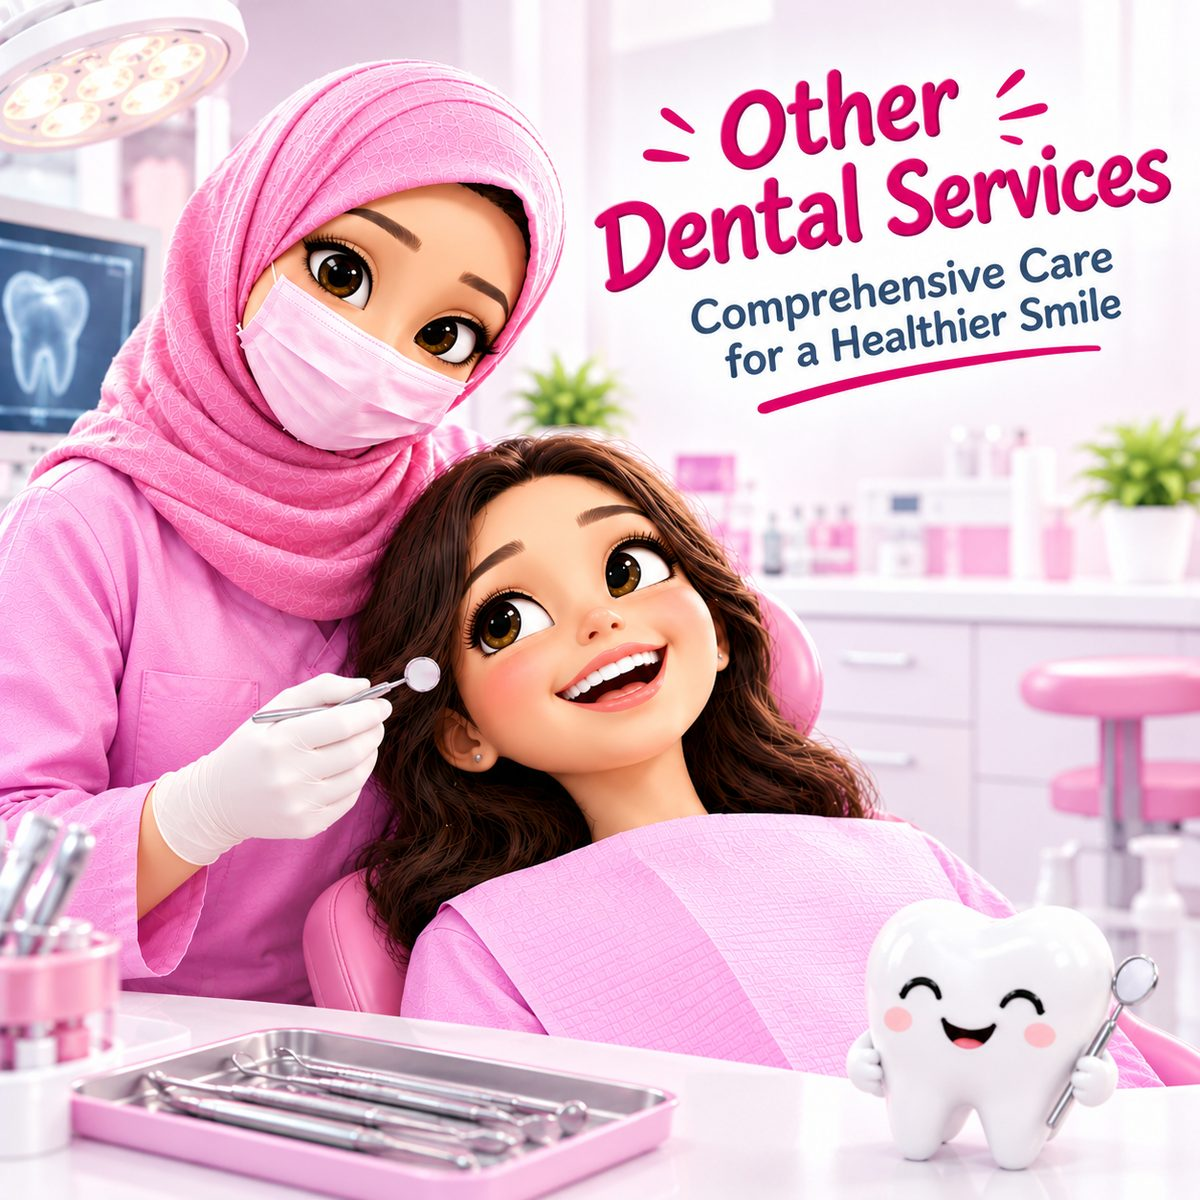
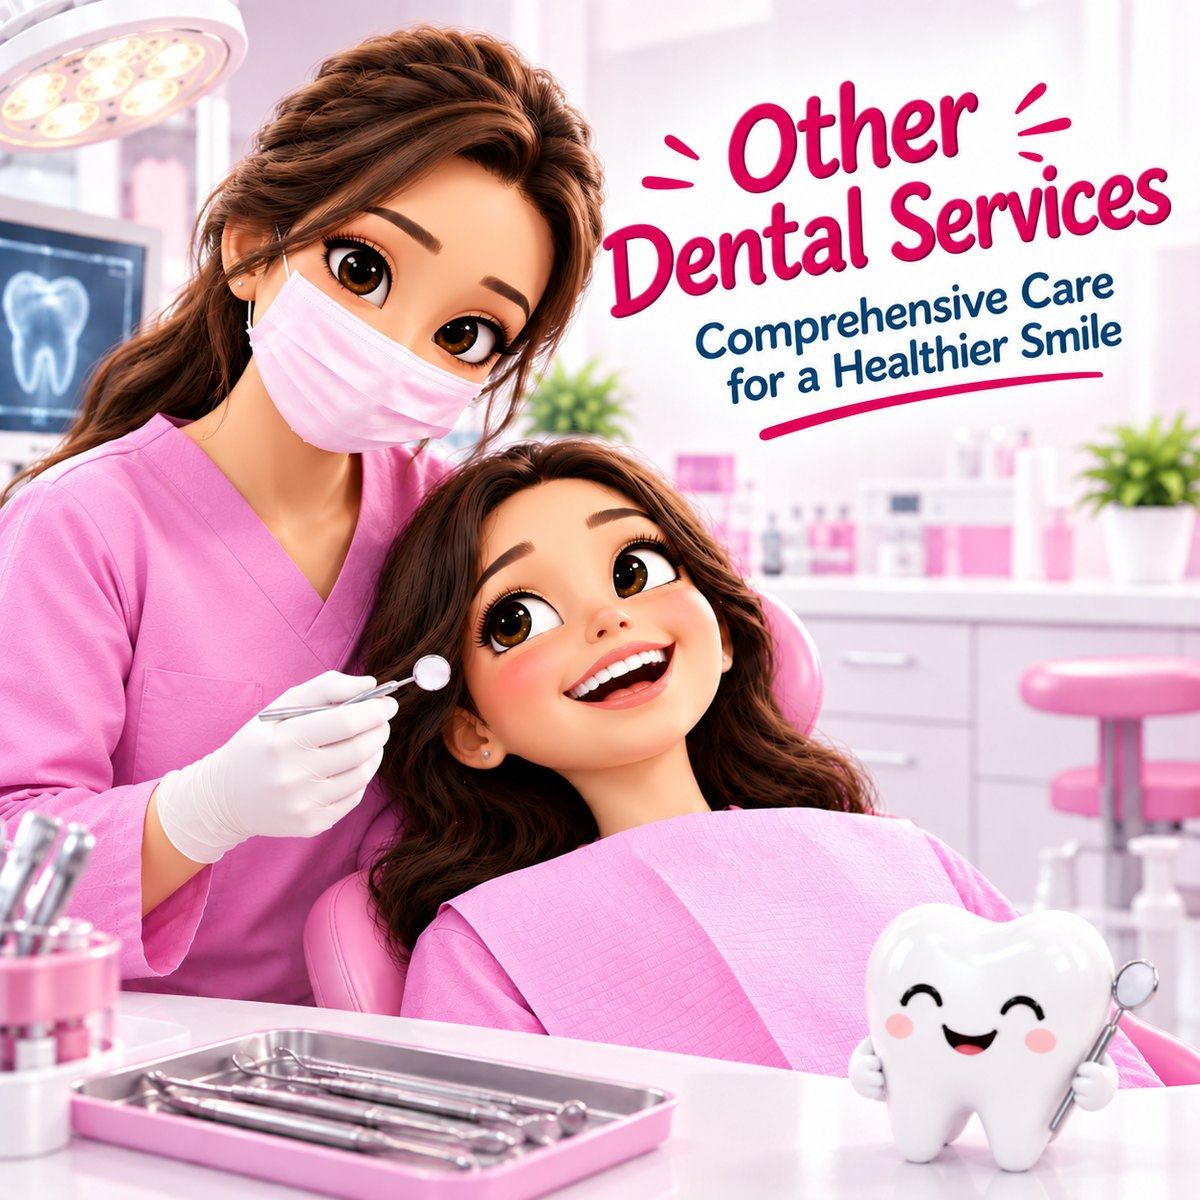
New images: General Dentistry, Orthodontics, Other Dental Services
Claude-Session: https://claude.ai/code/session_017qCPQQxzanc4XPe6tqL491

diff --git a/treatments.html b/treatments.html
@@ -12,7 +12,7 @@
 <link rel="icon" href="assets/img/mark.svg" type="image/svg+xml">
 <link rel="preload" href="assets/fonts/anton-400.woff2" as="font" type="font/woff2" crossorigin>
 <link rel="preload" href="assets/fonts/kanit-300.woff2" as="font" type="font/woff2" crossorigin>
-<link rel="stylesheet" href="assets/css/site.css?v=14">
+<link rel="stylesheet" href="assets/css/site.css?v=15">
 <script>document.documentElement.classList.add('js')</script>
 <script type="application/ld+json">{"@context":"https://schema.org","@type":"Dentist","name":"Pearlecent Shifah Medical Center L.L.C.","telephone":"+971 55 339 6152","address":{"@type":"PostalAddress","streetAddress":"Room 104, Al Zarooni Building, 73 Al Rigga Road","addressLocality":"Deira, Dubai","addressCountry":"AE"},"geo":{"@type":"GeoCoordinates","latitude":25.2624015,"longitude":55.3266563},"openingHours":["Sa-Th 09:00-22:00","Fr 13:00-21:00"],"sameAs":["https://www.instagram.com/pearlescent_dental","https://www.tiktok.com/@pearlecentshifah"]}</script>
 </head>
@@ -51,7 +51,7 @@
 
 <section class="tsec" id="general" aria-labelledby="general-h">
   <div class="wrap tsec__in">
-    <div class="tsec__pic shutter" data-reveal><picture><source type="image/webp" srcset="assets/img/treatments/general-600.webp 600w, assets/img/treatments/general-1200.webp 1200w" sizes="(max-width: 48em) 92vw, 520px"><img src="assets/img/treatments/general-1200.jpg" srcset="assets/img/treatments/general-600.jpg 600w, assets/img/treatments/general-1200.jpg 1200w" sizes="(max-width: 48em) 92vw, 520px" alt="General Dentistry at Pearlecent" width="1200" height="1200" decoding="async"></picture></div>
+    <div class="tsec__pic shutter" data-reveal><picture><source type="image/webp" srcset="assets/img/treatments/general-600.webp?v=15 600w, assets/img/treatments/general-1200.webp?v=15 1200w" sizes="(max-width: 48em) 92vw, 520px"><img src="assets/img/treatments/general-1200.jpg?v=15" srcset="assets/img/treatments/general-600.jpg?v=15 600w, assets/img/treatments/general-1200.jpg?v=15 1200w" sizes="(max-width: 48em) 92vw, 520px" alt="General Dentistry at Pearlecent" width="1200" height="1200" decoding="async"></picture></div>
     <div class="tsec__txt">
       <h2 id="general-h" data-reveal>General Dentistry</h2>
       <ul class="tsec__list" data-reveal><li>Free Dental Examinations and Check-ups</li><li>Tooth Cleaning (Scaling and Polishing)</li><li>Tooth Extraction (Surgical / Non-Surgical)</li></ul>
@@ -61,7 +61,7 @@
 </section>
 <section class="tsec tsec--flip" id="restorative" aria-labelledby="restorative-h">
   <div class="wrap tsec__in">
-    <div class="tsec__pic shutter" data-reveal><picture><source type="image/webp" srcset="assets/img/treatments/restorative-600.webp 600w, assets/img/treatments/restorative-1200.webp 1200w" sizes="(max-width: 48em) 92vw, 520px"><img src="assets/img/treatments/restorative-1200.jpg" srcset="assets/img/treatments/restorative-600.jpg 600w, assets/img/treatments/restorative-1200.jpg 1200w" sizes="(max-width: 48em) 92vw, 520px" alt="Restorative Dentistry at Pearlecent" width="1200" height="1200" loading="lazy" decoding="async"></picture></div>
+    <div class="tsec__pic shutter" data-reveal><picture><source type="image/webp" srcset="assets/img/treatments/restorative-600.webp?v=15 600w, assets/img/treatments/restorative-1200.webp?v=15 1200w" sizes="(max-width: 48em) 92vw, 520px"><img src="assets/img/treatments/restorative-1200.jpg?v=15" srcset="assets/img/treatments/restorative-600.jpg?v=15 600w, assets/img/treatments/restorative-1200.jpg?v=15 1200w" sizes="(max-width: 48em) 92vw, 520px" alt="Restorative Dentistry at Pearlecent" width="1200" height="1200" loading="lazy" decoding="async"></picture></div>
     <div class="tsec__txt">
       <h2 id="restorative-h" data-reveal>Restorative Dentistry</h2>
       <ul class="tsec__list" data-reveal><li>Tooth Colored Fillings (Composite / GIC)</li><li>Root Canal Treatment</li><li>Dental Crowns</li><li>Dental Bridges</li><li>Inlays / Onlays</li></ul>
@@ -71,7 +71,7 @@
 </section>
 <section class="tsec" id="cosmetic" aria-labelledby="cosmetic-h">
   <div class="wrap tsec__in">
-    <div class="tsec__pic shutter" data-reveal><picture><source type="image/webp" srcset="assets/img/treatments/cosmetic-600.webp 600w, assets/img/treatments/cosmetic-1200.webp 1200w" sizes="(max-width: 48em) 92vw, 520px"><img src="assets/img/treatments/cosmetic-1200.jpg" srcset="assets/img/treatments/cosmetic-600.jpg 600w, assets/img/treatments/cosmetic-1200.jpg 1200w" sizes="(max-width: 48em) 92vw, 520px" alt="Cosmetic Dentistry at Pearlecent" width="1200" height="1200" loading="lazy" decoding="async"></picture></div>
+    <div class="tsec__pic shutter" data-reveal><picture><source type="image/webp" srcset="assets/img/treatments/cosmetic-600.webp?v=15 600w, assets/img/treatments/cosmetic-1200.webp?v=15 1200w" sizes="(max-width: 48em) 92vw, 520px"><img src="assets/img/treatments/cosmetic-1200.jpg?v=15" srcset="assets/img/treatments/cosmetic-600.jpg?v=15 600w, assets/img/treatments/cosmetic-1200.jpg?v=15 1200w" sizes="(max-width: 48em) 92vw, 520px" alt="Cosmetic Dentistry at Pearlecent" width="1200" height="1200" loading="lazy" decoding="async"></picture></div>
     <div class="tsec__txt">
       <h2 id="cosmetic-h" data-reveal>Cosmetic Dentistry</h2>
       <ul class="tsec__list" data-reveal><li>Teeth Whitening</li><li>Dental Veneers – Composite, E-max and Zirconia</li><li>Full Mouth Veneers / Hollywood Smile</li><li>Tooth Jewellery</li><li>Smile Makeover</li><li>Snap On Veneers</li></ul>
@@ -81,7 +81,7 @@
 </section>
 <section class="tsec tsec--flip" id="orthodontics" aria-labelledby="orthodontics-h">
   <div class="wrap tsec__in">
-    <div class="tsec__pic shutter" data-reveal><picture><source type="image/webp" srcset="assets/img/treatments/orthodontics-600.webp 600w, assets/img/treatments/orthodontics-1200.webp 1200w" sizes="(max-width: 48em) 92vw, 520px"><img src="assets/img/treatments/orthodontics-1200.jpg" srcset="assets/img/treatments/orthodontics-600.jpg 600w, assets/img/treatments/orthodontics-1200.jpg 1200w" sizes="(max-width: 48em) 92vw, 520px" alt="Orthodontics – Braces &amp; Teeth Alignment at Pearlecent" width="1200" height="1200" loading="lazy" decoding="async"></picture></div>
+    <div class="tsec__pic shutter" data-reveal><picture><source type="image/webp" srcset="assets/img/treatments/orthodontics-600.webp?v=15 600w, assets/img/treatments/orthodontics-1200.webp?v=15 1200w" sizes="(max-width: 48em) 92vw, 520px"><img src="assets/img/treatments/orthodontics-1200.jpg?v=15" srcset="assets/img/treatments/orthodontics-600.jpg?v=15 600w, assets/img/treatments/orthodontics-1200.jpg?v=15 1200w" sizes="(max-width: 48em) 92vw, 520px" alt="Orthodontics – Braces &amp; Teeth Alignment at Pearlecent" width="1200" height="1200" loading="lazy" decoding="async"></picture></div>
     <div class="tsec__txt">
       <h2 id="orthodontics-h" data-reveal>Orthodontics – Braces &amp; Teeth Alignment</h2>
       <ul class="tsec__list" data-reveal><li>Metal Braces</li><li>Ceramic and Crystal Braces</li><li>Lingual Braces</li><li>Damon Braces / Self Ligating</li><li>Clear Aligners / Invisalign</li></ul>
@@ -91,7 +91,7 @@
 </section>
 <section class="tsec" id="dentures" aria-labelledby="dentures-h">
   <div class="wrap tsec__in">
-    <div class="tsec__pic shutter" data-reveal><picture><source type="image/webp" srcset="assets/img/treatments/dentures-600.webp 600w, assets/img/treatments/dentures-1200.webp 1200w" sizes="(max-width: 48em) 92vw, 520px"><img src="assets/img/treatments/dentures-1200.jpg" srcset="assets/img/treatments/dentures-600.jpg 600w, assets/img/treatments/dentures-1200.jpg 1200w" sizes="(max-width: 48em) 92vw, 520px" alt="Dentures &amp; Retainers at Pearlecent" width="1200" height="1200" loading="lazy" decoding="async"></picture></div>
+    <div class="tsec__pic shutter" data-reveal><picture><source type="image/webp" srcset="assets/img/treatments/dentures-600.webp?v=15 600w, assets/img/treatments/dentures-1200.webp?v=15 1200w" sizes="(max-width: 48em) 92vw, 520px"><img src="assets/img/treatments/dentures-1200.jpg?v=15" srcset="assets/img/treatments/dentures-600.jpg?v=15 600w, assets/img/treatments/dentures-1200.jpg?v=15 1200w" sizes="(max-width: 48em) 92vw, 520px" alt="Dentures &amp; Retainers at Pearlecent" width="1200" height="1200" loading="lazy" decoding="async"></picture></div>
     <div class="tsec__txt">
       <h2 id="dentures-h" data-reveal>Dentures &amp; Retainers</h2>
       <ul class="tsec__list" data-reveal><li>Removable Partial Dentures (Acrylic / Flexible)</li><li>Complete Denture</li><li>Clear Retainers</li><li>Lingual Retainers</li><li>Hawley’s Retainers</li></ul>
@@ -101,7 +101,7 @@
 </section>
 <section class="tsec tsec--flip" id="other" aria-labelledby="other-h">
   <div class="wrap tsec__in">
-    <div class="tsec__pic shutter" data-reveal><picture><source type="image/webp" srcset="assets/img/treatments/other-600.webp 600w, assets/img/treatments/other-1200.webp 1200w" sizes="(max-width: 48em) 92vw, 520px"><img src="assets/img/treatments/other-1200.jpg" srcset="assets/img/treatments/other-600.jpg 600w, assets/img/treatments/other-1200.jpg 1200w" sizes="(max-width: 48em) 92vw, 520px" alt="Other Dental Services at Pearlecent" width="1200" height="1200" loading="lazy" decoding="async"></picture></div>
+    <div class="tsec__pic shutter" data-reveal><picture><source type="image/webp" srcset="assets/img/treatments/other-600.webp?v=15 600w, assets/img/treatments/other-1200.webp?v=15 1200w" sizes="(max-width: 48em) 92vw, 520px"><img src="assets/img/treatments/other-1200.jpg?v=15" srcset="assets/img/treatments/other-600.jpg?v=15 600w, assets/img/treatments/other-1200.jpg?v=15 1200w" sizes="(max-width: 48em) 92vw, 520px" alt="Other Dental Services at Pearlecent" width="1200" height="1200" loading="lazy" decoding="async"></picture></div>
     <div class="tsec__txt">
       <h2 id="other-h" data-reveal>Other Dental Services</h2>
       <ul class="tsec__list" data-reveal><li>TMJ Consultation</li><li>Mouth Guard</li><li>Preventive Dental Care</li><li>Pedodontic Treatments</li><li>Fluoride Treatment</li><li>Dental X-ray</li><li>Digital Dentistry</li></ul>
@@ -130,6 +130,6 @@
     <p><a href="about.html">About</a><a href="treatments.html">Treatments</a><a href="index.html#visit">Contact</a></p></div>
 </footer>
 <a class="wa-float" href="https://wa.me/971553396152" target="_blank" rel="noopener" data-wa-float aria-label="Chat with Pearlecent"><svg viewBox="0 0 24 24" aria-hidden="true"><path d="M4 5.5A2.5 2.5 0 0 1 6.5 3h11A2.5 2.5 0 0 1 20 5.5v8a2.5 2.5 0 0 1-2.5 2.5H10l-4.2 3.6c-.5.4-1.3.1-1.3-.6V16A2.5 2.5 0 0 1 4 13.5z" fill="none" stroke="currentColor" stroke-width="1.8" stroke-linejoin="round"/><path d="M8.5 8.5h7M8.5 11.5h4.5" stroke="currentColor" stroke-width="1.8" stroke-linecap="round"/></svg><span>Chat with us</span></a>
-<script src="assets/js/site.js?v=14" defer></script>
+<script src="assets/js/site.js?v=15" defer></script>
 </body>
 </html>

diff --git a/dentists/ankur.html b/dentists/ankur.html
@@ -12,7 +12,7 @@
 <link rel="icon" href="../assets/img/mark.svg" type="image/svg+xml">
 <link rel="preload" href="../assets/fonts/anton-400.woff2" as="font" type="font/woff2" crossorigin>
 <link rel="preload" href="../assets/fonts/kanit-300.woff2" as="font" type="font/woff2" crossorigin>
-<link rel="stylesheet" href="../assets/css/site.css?v=14">
+<link rel="stylesheet" href="../assets/css/site.css?v=15">
 <script>document.documentElement.classList.add('js')</script>
 <script type="application/ld+json">{"@context":"https://schema.org","@type":"Dentist","name":"Pearlecent Shifah Medical Center L.L.C.","telephone":"+971 55 339 6152","address":{"@type":"PostalAddress","streetAddress":"Room 104, Al Zarooni Building, 73 Al Rigga Road","addressLocality":"Deira, Dubai","addressCountry":"AE"},"geo":{"@type":"GeoCoordinates","latitude":25.2624015,"longitude":55.3266563},"openingHours":["Sa-Th 09:00-22:00","Fr 13:00-21:00"],"sameAs":["https://www.instagram.com/pearlescent_dental","https://www.tiktok.com/@pearlecentshifah"]}</script>
 </head>
@@ -136,6 +136,6 @@
     <p><a href="../about.html">About</a><a href="../treatments.html">Treatments</a><a href="../index.html#visit">Contact</a></p></div>
 </footer>
 <a class="wa-float" href="https://wa.me/971553396152" target="_blank" rel="noopener" data-wa-float aria-label="Chat with Pearlecent"><svg viewBox="0 0 24 24" aria-hidden="true"><path d="M4 5.5A2.5 2.5 0 0 1 6.5 3h11A2.5 2.5 0 0 1 20 5.5v8a2.5 2.5 0 0 1-2.5 2.5H10l-4.2 3.6c-.5.4-1.3.1-1.3-.6V16A2.5 2.5 0 0 1 4 13.5z" fill="none" stroke="currentColor" stroke-width="1.8" stroke-linejoin="round"/><path d="M8.5 8.5h7M8.5 11.5h4.5" stroke="currentColor" stroke-width="1.8" stroke-linecap="round"/></svg><span>Chat with us</span></a>
-<script src="../assets/js/site.js?v=14" defer></script>
+<script src="../assets/js/site.js?v=15" defer></script>
 </body>
 </html>

diff --git a/dentists/faseela.html b/dentists/faseela.html
@@ -12,7 +12,7 @@
 <link rel="icon" href="../assets/img/mark.svg" type="image/svg+xml">
 <link rel="preload" href="../assets/fonts/anton-400.woff2" as="font" type="font/woff2" crossorigin>
 <link rel="preload" href="../assets/fonts/kanit-300.woff2" as="font" type="font/woff2" crossorigin>
-<link rel="stylesheet" href="../assets/css/site.css?v=14">
+<link rel="stylesheet" href="../assets/css/site.css?v=15">
 <script>document.documentElement.classList.add('js')</script>
 <script type="application/ld+json">{"@context":"https://schema.org","@type":"Dentist","name":"Pearlecent Shifah Medical Center L.L.C.","telephone":"+971 55 339 6152","address":{"@type":"PostalAddress","streetAddress":"Room 104, Al Zarooni Building, 73 Al Rigga Road","addressLocality":"Deira, Dubai","addressCountry":"AE"},"geo":{"@type":"GeoCoordinates","latitude":25.2624015,"longitude":55.3266563},"openingHours":["Sa-Th 09:00-22:00","Fr 13:00-21:00"],"sameAs":["https://www.instagram.com/pearlescent_dental","https://www.tiktok.com/@pearlecentshifah"]}</script>
 </head>
@@ -136,6 +136,6 @@
     <p><a href="../about.html">About</a><a href="../treatments.html">Treatments</a><a href="../index.html#visit">Contact</a></p></div>
 </footer>
 <a class="wa-float" href="https://wa.me/971553396152" target="_blank" rel="noopener" data-wa-float aria-label="Chat with Pearlecent"><svg viewBox="0 0 24 24" aria-hidden="true"><path d="M4 5.5A2.5 2.5 0 0 1 6.5 3h11A2.5 2.5 0 0 1 20 5.5v8a2.5 2.5 0 0 1-2.5 2.5H10l-4.2 3.6c-.5.4-1.3.1-1.3-.6V16A2.5 2.5 0 0 1 4 13.5z" fill="none" stroke="currentColor" stroke-width="1.8" stroke-linejoin="round"/><path d="M8.5 8.5h7M8.5 11.5h4.5" stroke="currentColor" stroke-width="1.8" stroke-linecap="round"/></svg><span>Chat with us</span></a>
-<script src="../assets/js/site.js?v=14" defer></script>
+<script src="../assets/js/site.js?v=15" defer></script>
 </body>
 </html>

diff --git a/dentists/krishna.html b/dentists/krishna.html
@@ -12,7 +12,7 @@
 <link rel="icon" href="../assets/img/mark.svg" type="image/svg+xml">
 <link rel="preload" href="../assets/fonts/anton-400.woff2" as="font" type="font/woff2" crossorigin>
 <link rel="preload" href="../assets/fonts/kanit-300.woff2" as="font" type="font/woff2" crossorigin>
-<link rel="stylesheet" href="../assets/css/site.css?v=14">
+<link rel="stylesheet" href="../assets/css/site.css?v=15">
 <script>document.documentElement.classList.add('js')</script>
 <script type="application/ld+json">{"@context":"https://schema.org","@type":"Dentist","name":"Pearlecent Shifah Medical Center L.L.C.","telephone":"+971 55 339 6152","address":{"@type":"PostalAddress","streetAddress":"Room 104, Al Zarooni Building, 73 Al Rigga Road","addressLocality":"Deira, Dubai","addressCountry":"AE"},"geo":{"@type":"GeoCoordinates","latitude":25.2624015,"longitude":55.3266563},"openingHours":["Sa-Th 09:00-22:00","Fr 13:00-21:00"],"sameAs":["https://www.instagram.com/pearlescent_dental","https://www.tiktok.com/@pearlecentshifah"]}</script>
 </head>
@@ -136,6 +136,6 @@
     <p><a href="../about.html">About</a><a href="../treatments.html">Treatments</a><a href="../index.html#visit">Contact</a></p></div>
 </footer>
 <a class="wa-float" href="https://wa.me/971553396152" target="_blank" rel="noopener" data-wa-float aria-label="Chat with Pearlecent"><svg viewBox="0 0 24 24" aria-hidden="true"><path d="M4 5.5A2.5 2.5 0 0 1 6.5 3h11A2.5 2.5 0 0 1 20 5.5v8a2.5 2.5 0 0 1-2.5 2.5H10l-4.2 3.6c-.5.4-1.3.1-1.3-.6V16A2.5 2.5 0 0 1 4 13.5z" fill="none" stroke="currentColor" stroke-width="1.8" stroke-linejoin="round"/><path d="M8.5 8.5h7M8.5 11.5h4.5" stroke="currentColor" stroke-width="1.8" stroke-linecap="round"/></svg><span>Chat with us</span></a>
-<script src="../assets/js/site.js?v=14" defer></script>
+<script src="../assets/js/site.js?v=15" defer></script>
 </body>
 </html>

diff --git a/dentists/nasira.html b/dentists/nasira.html
@@ -12,7 +12,7 @@
 <link rel="icon" href="../assets/img/mark.svg" type="image/svg+xml">
 <link rel="preload" href="../assets/fonts/anton-400.woff2" as="font" type="font/woff2" crossorigin>
 <link rel="preload" href="../assets/fonts/kanit-300.woff2" as="font" type="font/woff2" crossorigin>
-<link rel="stylesheet" href="../assets/css/site.css?v=14">
+<link rel="stylesheet" href="../assets/css/site.css?v=15">
 <script>document.documentElement.classList.add('js')</script>
 <script type="application/ld+json">{"@context":"https://schema.org","@type":"Dentist","name":"Pearlecent Shifah Medical Center L.L.C.","telephone":"+971 55 339 6152","address":{"@type":"PostalAddress","streetAddress":"Room 104, Al Zarooni Building, 73 Al Rigga Road","addressLocality":"Deira, Dubai","addressCountry":"AE"},"geo":{"@type":"GeoCoordinates","latitude":25.2624015,"longitude":55.3266563},"openingHours":["Sa-Th 09:00-22:00","Fr 13:00-21:00"],"sameAs":["https://www.instagram.com/pearlescent_dental","https://www.tiktok.com/@pearlecentshifah"]}</script>
 </head>
@@ -136,6 +136,6 @@
     <p><a href="../about.html">About</a><a href="../treatments.html">Treatments</a><a href="../index.html#visit">Contact</a></p></div>
 </footer>
 <a class="wa-float" href="https://wa.me/971553396152" target="_blank" rel="noopener" data-wa-float aria-label="Chat with Pearlecent"><svg viewBox="0 0 24 24" aria-hidden="true"><path d="M4 5.5A2.5 2.5 0 0 1 6.5 3h11A2.5 2.5 0 0 1 20 5.5v8a2.5 2.5 0 0 1-2.5 2.5H10l-4.2 3.6c-.5.4-1.3.1-1.3-.6V16A2.5 2.5 0 0 1 4 13.5z" fill="none" stroke="currentColor" stroke-width="1.8" stroke-linejoin="round"/><path d="M8.5 8.5h7M8.5 11.5h4.5" stroke="currentColor" stroke-width="1.8" stroke-linecap="round"/></svg><span>Chat with us</span></a>
-<script src="../assets/js/site.js?v=14" defer></script>
+<script src="../assets/js/site.js?v=15" defer></script>
 </body>
 </html>

diff --git a/dentists/sangeetha.html b/dentists/sangeetha.html
@@ -12,7 +12,7 @@
 <link rel="icon" href="../assets/img/mark.svg" type="image/svg+xml">
 <link rel="preload" href="../assets/fonts/anton-400.woff2" as="font" type="font/woff2" crossorigin>
 <link rel="preload" href="../assets/fonts/kanit-300.woff2" as="font" type="font/woff2" crossorigin>
-<link rel="stylesheet" href="../assets/css/site.css?v=14">
+<link rel="stylesheet" href="../assets/css/site.css?v=15">
 <script>document.documentElement.classList.add('js')</script>
 <script type="application/ld+json">{"@context":"https://schema.org","@type":"Dentist","name":"Pearlecent Shifah Medical Center L.L.C.","telephone":"+971 55 339 6152","address":{"@type":"PostalAddress","streetAddress":"Room 104, Al Zarooni Building, 73 Al Rigga Road","addressLocality":"Deira, Dubai","addressCountry":"AE"},"geo":{"@type":"GeoCoordinates","latitude":25.2624015,"longitude":55.3266563},"openingHours":["Sa-Th 09:00-22:00","Fr 13:00-21:00"],"sameAs":["https://www.instagram.com/pearlescent_dental","https://www.tiktok.com/@pearlecentshifah"]}</script>
 </head>
@@ -136,6 +136,6 @@
     <p><a href="../about.html">About</a><a href="../treatments.html">Treatments</a><a href="../index.html#visit">Contact</a></p></div>
 </footer>
 <a class="wa-float" href="https://wa.me/971553396152" target="_blank" rel="noopener" data-wa-float aria-label="Chat with Pearlecent"><svg viewBox="0 0 24 24" aria-hidden="true"><path d="M4 5.5A2.5 2.5 0 0 1 6.5 3h11A2.5 2.5 0 0 1 20 5.5v8a2.5 2.5 0 0 1-2.5 2.5H10l-4.2 3.6c-.5.4-1.3.1-1.3-.6V16A2.5 2.5 0 0 1 4 13.5z" fill="none" stroke="currentColor" stroke-width="1.8" stroke-linejoin="round"/><path d="M8.5 8.5h7M8.5 11.5h4.5" stroke="currentColor" stroke-width="1.8" stroke-linecap="round"/></svg><span>Chat with us</span></a>
-<script src="../assets/js/site.js?v=14" defer></script>
+<script src="../assets/js/site.js?v=15" defer></script>
 </body>
 </html>

diff --git a/about.html b/about.html
@@ -12,7 +12,7 @@
 <link rel="icon" href="assets/img/mark.svg" type="image/svg+xml">
 <link rel="preload" href="assets/fonts/anton-400.woff2" as="font" type="font/woff2" crossorigin>
 <link rel="preload" href="assets/fonts/kanit-300.woff2" as="font" type="font/woff2" crossorigin>
-<link rel="stylesheet" href="assets/css/site.css?v=14">
+<link rel="stylesheet" href="assets/css/site.css?v=15">
 <script>document.documentElement.classList.add('js')</script>
 <script type="application/ld+json">{"@context":"https://schema.org","@type":"Dentist","name":"Pearlecent Shifah Medical Center L.L.C.","telephone":"+971 55 339 6152","address":{"@type":"PostalAddress","streetAddress":"Room 104, Al Zarooni Building, 73 Al Rigga Road","addressLocality":"Deira, Dubai","addressCountry":"AE"},"geo":{"@type":"GeoCoordinates","latitude":25.2624015,"longitude":55.3266563},"openingHours":["Sa-Th 09:00-22:00","Fr 13:00-21:00"],"sameAs":["https://www.instagram.com/pearlescent_dental","https://www.tiktok.com/@pearlecentshifah"]}</script>
 </head>
@@ -166,6 +166,6 @@
     <p><a href="about.html">About</a><a href="treatments.html">Treatments</a><a href="index.html#visit">Contact</a></p></div>
 </footer>
 <a class="wa-float" href="https://wa.me/971553396152" target="_blank" rel="noopener" data-wa-float aria-label="Chat with Pearlecent"><svg viewBox="0 0 24 24" aria-hidden="true"><path d="M4 5.5A2.5 2.5 0 0 1 6.5 3h11A2.5 2.5 0 0 1 20 5.5v8a2.5 2.5 0 0 1-2.5 2.5H10l-4.2 3.6c-.5.4-1.3.1-1.3-.6V16A2.5 2.5 0 0 1 4 13.5z" fill="none" stroke="currentColor" stroke-width="1.8" stroke-linejoin="round"/><path d="M8.5 8.5h7M8.5 11.5h4.5" stroke="currentColor" stroke-width="1.8" stroke-linecap="round"/></svg><span>Chat with us</span></a>
-<script src="assets/js/site.js?v=14" defer></script>
+<script src="assets/js/site.js?v=15" defer></script>
 </body>
 </html>

diff --git a/index.html b/index.html
@@ -12,7 +12,7 @@
 <link rel="icon" href="assets/img/mark.svg" type="image/svg+xml">
 <link rel="preload" href="assets/fonts/anton-400.woff2" as="font" type="font/woff2" crossorigin>
 <link rel="preload" href="assets/fonts/kanit-300.woff2" as="font" type="font/woff2" crossorigin>
-<link rel="stylesheet" href="assets/css/site.css?v=14">
+<link rel="stylesheet" href="assets/css/site.css?v=15">
 <script>document.documentElement.classList.add('js')</script>
 <script type="application/ld+json">{"@context":"https://schema.org","@type":"Dentist","name":"Pearlecent Shifah Medical Center L.L.C.","telephone":"+971 55 339 6152","address":{"@type":"PostalAddress","streetAddress":"Room 104, Al Zarooni Building, 73 Al Rigga Road","addressLocality":"Deira, Dubai","addressCountry":"AE"},"geo":{"@type":"GeoCoordinates","latitude":25.2624015,"longitude":55.3266563},"openingHours":["Sa-Th 09:00-22:00","Fr 13:00-21:00"],"sameAs":["https://www.instagram.com/pearlescent_dental","https://www.tiktok.com/@pearlecentshifah"]}</script>
 </head>
@@ -281,6 +281,6 @@
     <p><a href="about.html">About</a><a href="treatments.html">Treatments</a><a href="index.html#visit">Contact</a></p></div>
 </footer>
 <a class="wa-float" href="https://wa.me/971553396152" target="_blank" rel="noopener" data-wa-float aria-label="Chat with Pearlecent"><svg viewBox="0 0 24 24" aria-hidden="true"><path d="M4 5.5A2.5 2.5 0 0 1 6.5 3h11A2.5 2.5 0 0 1 20 5.5v8a2.5 2.5 0 0 1-2.5 2.5H10l-4.2 3.6c-.5.4-1.3.1-1.3-.6V16A2.5 2.5 0 0 1 4 13.5z" fill="none" stroke="currentColor" stroke-width="1.8" stroke-linejoin="round"/><path d="M8.5 8.5h7M8.5 11.5h4.5" stroke="currentColor" stroke-width="1.8" stroke-linecap="round"/></svg><span>Chat with us</span></a>
-<script src="assets/js/site.js?v=14" defer></script>
+<script src="assets/js/site.js?v=15" defer></script>
 </body>
 </html>
